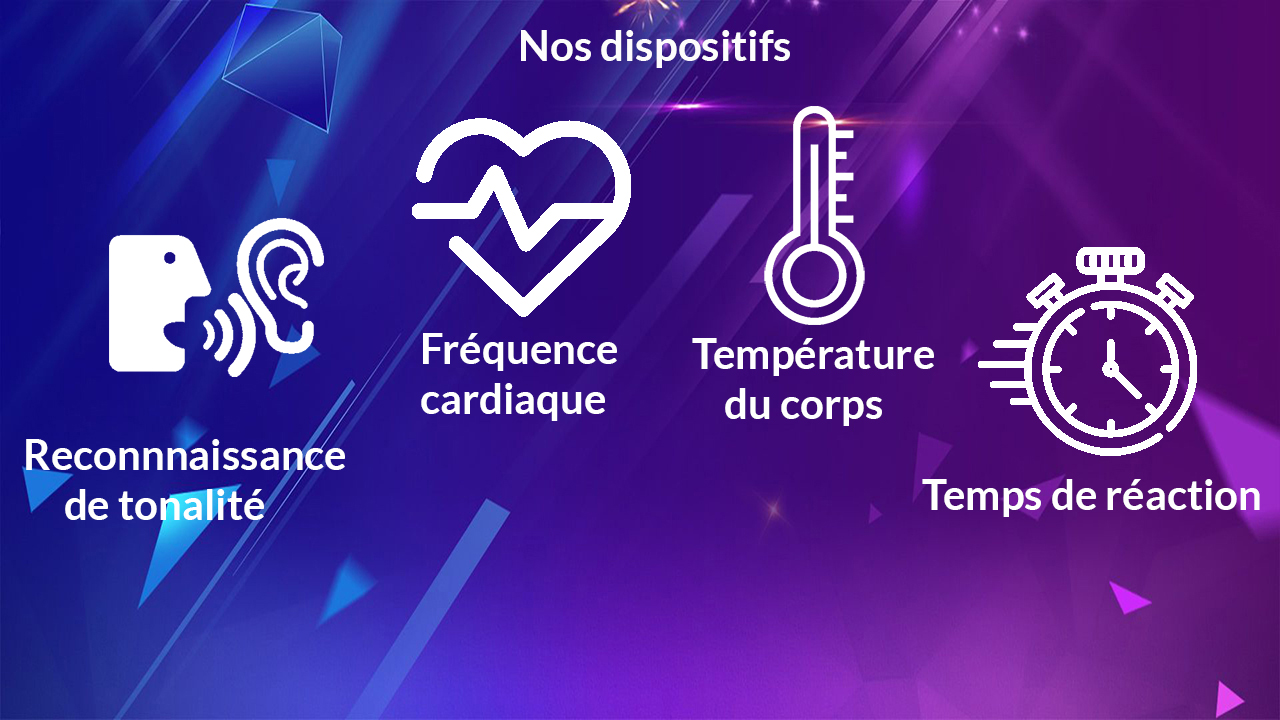
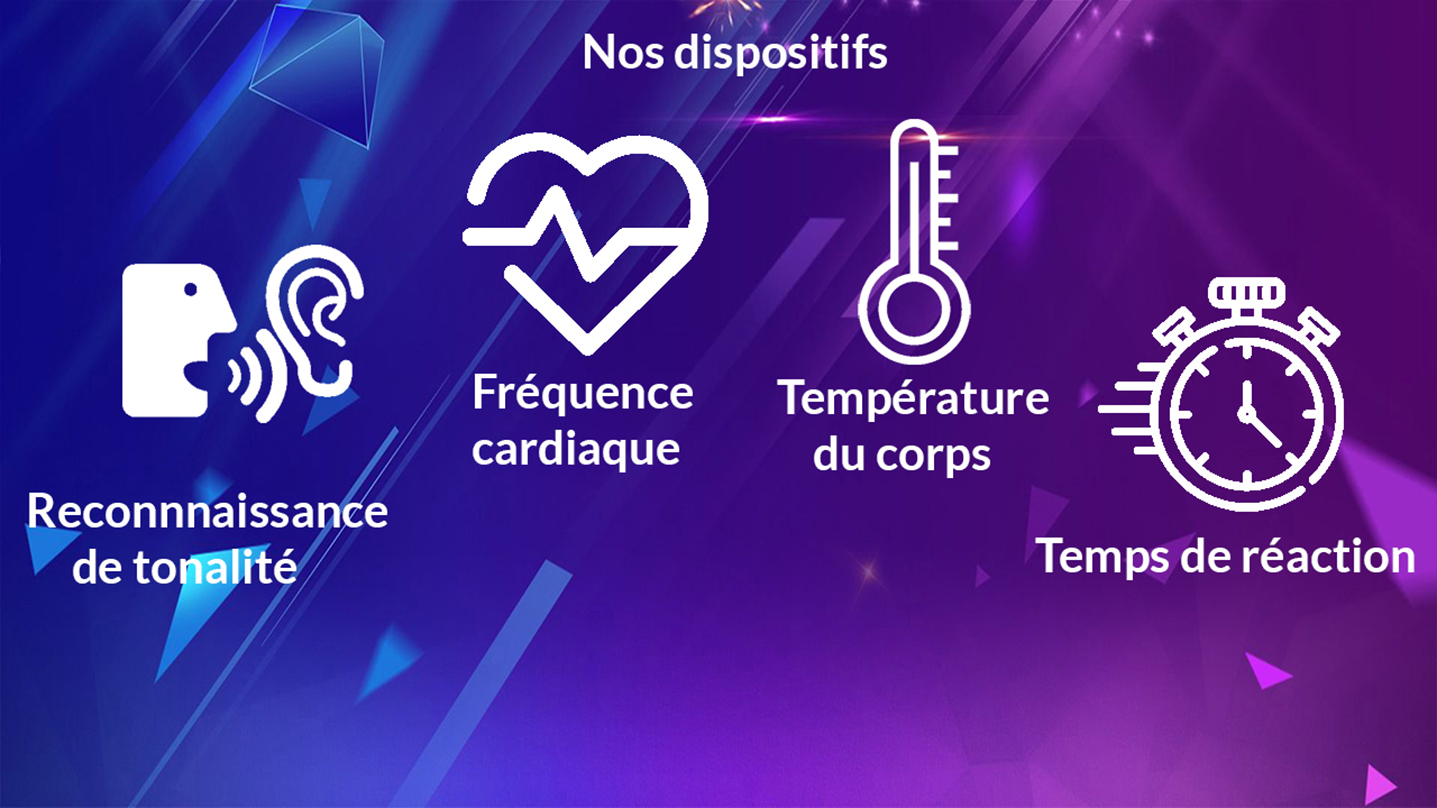
system

diff --git a/home.html b/home.html
@@ -29,13 +29,12 @@
             </video>
         </section>
         <section>
-             <img class="image1" src="images/2.jpg">
-        </section>
-        <section>
             <div class="title">
-                <h2>Dispositif reconnu par la CIA</h2>
+                <h2> Nos dispositifs </h2>
+                <img class="image1" src="images/Systeme.png">
             </div>
-            <img class="image1" src="images/0ba3d60362c7e6d256cfc1f37156bad9.jpg">
+            
+             <img class="image" src="images/téléchargement.jpg">
         </section>
     </div>
 </body>

diff --git a/quirkyhome.css b/quirkyhome.css
@@ -147,8 +147,8 @@ h1 {
     z-index: 2;
 }
 
-.image1{
-    height: auto;
+.image{
+    height: 100%;
     width: 100%;
     object-fit: cover;
     z-index: 2;
@@ -157,13 +157,23 @@ h1 {
 .title{
     position : relative;
     z-index: 1;
-    margin-left: 250px;
-    margin-right: 250px;
+    margin-right: 350px;
 }
 
 h2{ 
     position: absolute;
     width: auto;
-    font-size: 45px;
+    font-size: 60px;
     color: white;
+    margin-left: 350px;
 }
+
+.image1{
+    position: absolute;
+    margin-top: 250px;
+    margin-right: 150px;
+    margin-left: 150px;
+}
+
+
+
